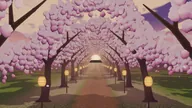
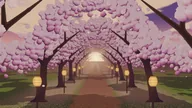
feat: enhance blossom shader with haze effects and depth adjustments

diff --git a/src/components/scenes/world/shaders/blossom.ts b/src/components/scenes/world/shaders/blossom.ts
@@ -50,6 +50,10 @@ const float FOG = 0.045;
    through them as ghost trees. */
 const vec2 LANE_HAZE = vec2(12.0, 25.0);
 const vec2 LANE_FADE = vec2(23.0, 28.0);
+/* Depths (m) over which the sun's glow joins the haze. Nearer, backlit wood
+   and blossom keep their own colour against the light: at full glow a limb
+   ten metres off took on the sky's gold and read as see-through. */
+const vec2 SUN_VEIL = vec2(10.0, 22.0);
 /* The far wood closing the lane: its height above the horizon (base, plus
    noise), how far it parts where the sun comes through, and how much of the
    blossom's colour survives the haze. */
@@ -144,6 +148,12 @@ vec3 laneFog(vec3 rd) {
   vec2 dir = v / max(d, 1e-4);
   float shafts = smoothstep(0.5, 0.8, noise2(dir * 3.0 + vec2(uTime * 0.01, 0.0))) * exp(-d * 2.5) * smoothstep(0.0, 0.05, d);
   return HAZE + SUN_WARM * (exp(-d * 7.0) * 0.32 + shafts * 0.08) * sunPulse();
+}
+
+/* The haze a thing at depth z sinks into: the plain warm air near, the
+   sun's glow and shafts only once it is far enough down the lane. */
+vec3 hazeAt(vec3 fogCol, float z) {
+  return mix(HAZE, fogCol, smoothstep(SUN_VEIL.x, SUN_VEIL.y, z));
 }
 
 /* A cell pattern of small shapes on the ground, and how resolved it is here:
@@ -404,7 +414,7 @@ vec3 paintPetals(vec3 col, vec2 sp, vec3 ro, float solidZ, vec3 fogCol) {
     float notch = smoothstep(0.0, 0.25, length(e - vec2(1.0, 0.0)));
     float shape = (1.0 - smoothstep(1.0 - soft, 1.0 + soft, r)) * notch;
     float fade = smoothstep(0.35, 1.0, z) * (1.0 - smoothstep(PETAL_DEPTH * 0.6, PETAL_DEPTH, z));
-    vec3 pc = mix(fogCol, PETAL * (0.3 + 0.4 * flip), exp(-z * FOG));
+    vec3 pc = mix(hazeAt(fogCol, z), PETAL * (0.3 + 0.4 * flip), exp(-z * FOG));
     col = mix(col, pc, shape * present * fade * 0.9);
   }
   return col;
@@ -447,7 +457,7 @@ vec3 world(vec2 fragCoord) {
       }
       c.a *= fade;
       if (c.a <= 0.0) continue;
-      acc += trans * c.a * mix(fogCol, c.rgb, fog);
+      acc += trans * c.a * mix(hazeAt(fogCol, z), c.rgb, fog);
       trans *= 1.0 - c.a;
       if (trans < 0.5 && solidZ > 1e5) solidZ = z;
       if (trans < 0.01) break;
@@ -458,7 +468,7 @@ vec3 world(vec2 fragCoord) {
   vec3 back;
   if (groundZ < 1e5) {
     vec3 g = vec3(ro.x + sp.x * groundZ / FOCAL, 0.0, ro.z + groundZ);
-    back = mix(fogCol, groundColor(g, groundZ), exp(-groundZ * FOG));
+    back = mix(hazeAt(fogCol, groundZ), groundColor(g, groundZ), exp(-groundZ * FOG));
     solidZ = min(solidZ, groundZ);
   } else {
     back = laneSky(rd, fogCol);
